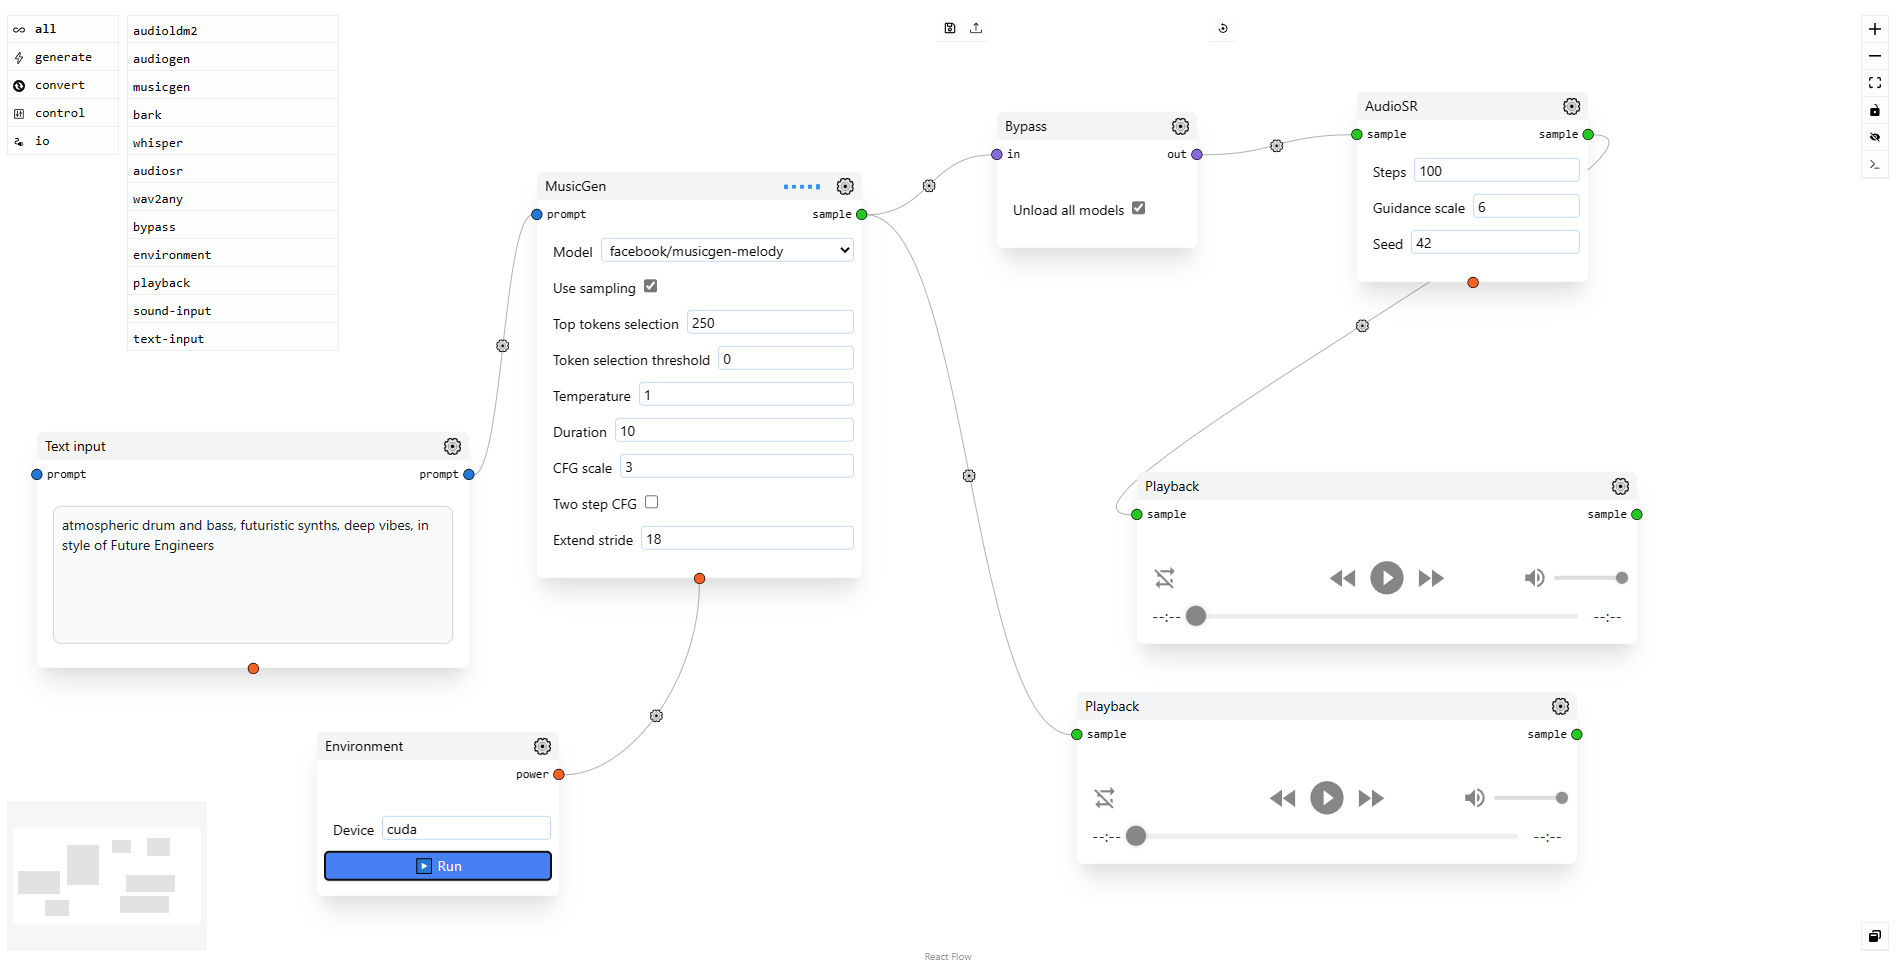
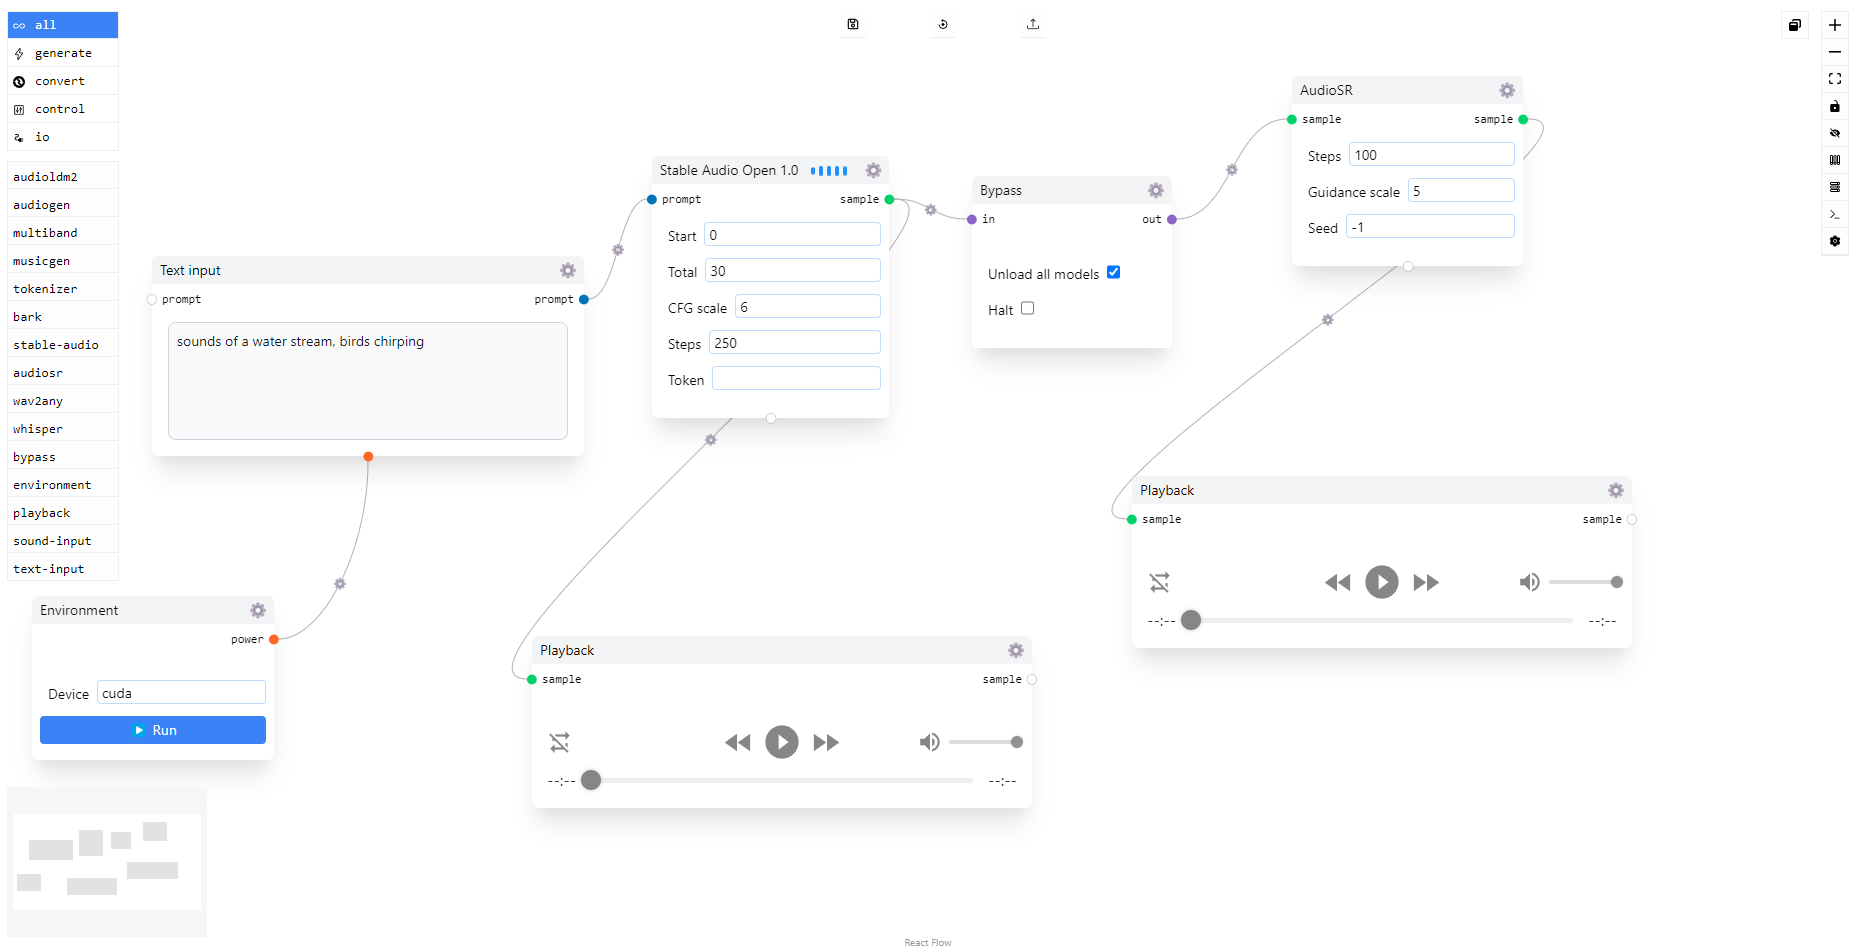
update screenshot and README

diff --git a/README.md b/README.md
@@ -10,7 +10,7 @@ But for now, it's <b>WIP POC</b> and not yet production-ready or close to being 
 
 ## Credits 
 
-It is built on [Audiocraft](https://github.com/facebookresearch/audiocraft), [AudioLDM 2](https://github.com/haoheliu/AudioLDM2), [AudioSR](https://github.com/haoheliu/versatile_audio_super_resolution), [Bark](https://github.com/suno-ai/bark), [Flask](https://github.com/pallets/flask), [React](https://github.com/facebook/react), [ReactFlow](https://github.com/wbkd/react-flow), [Tailwind](https://github.com/tailwindlabs/tailwindcss) and other great projects 🔥
+It is built on [Stable Audio Open](https://huggingface.co/stabilityai/stable-audio-open-1.0), [Audiocraft](https://github.com/facebookresearch/audiocraft), [AudioLDM 2](https://github.com/haoheliu/AudioLDM2), [AudioSR](https://github.com/haoheliu/versatile_audio_super_resolution), [Bark](https://github.com/suno-ai/bark), [Flask](https://github.com/pallets/flask), [React](https://github.com/facebook/react), [ReactFlow](https://github.com/wbkd/react-flow), [Tailwind](https://github.com/tailwindlabs/tailwindcss) and other great projects 🔥
 
 ## Short-term plans
 
@@ -20,12 +20,13 @@ It is built on [Audiocraft](https://github.com/facebookresearch/audiocraft), [Au
 * Config-based nodes (.py) 
 * Audiogen
 * Enhanced MusicGen nodes
+* Interrogation with CLAP
 * MAGNeT
 * Demucs
 * EnCLAP
 * Auffusion
 * Musicgen training
-* StableAudio 2
+* StableAudio training
 * Navigation between node groups
 
 ## Pipelines
